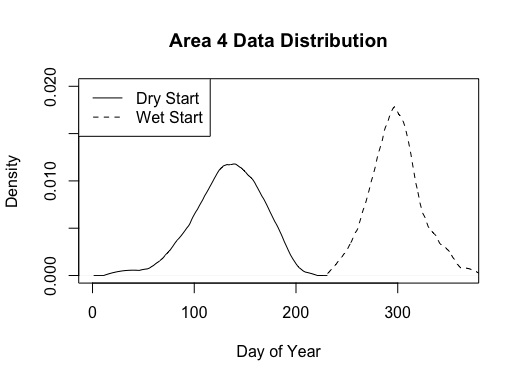
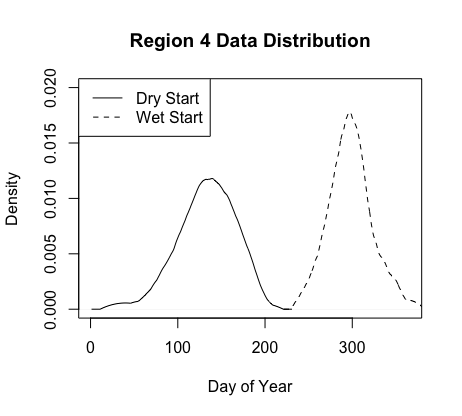
report update

diff --git a/Report/Report.tex b/Report/Report.tex
@@ -34,19 +34,19 @@ Residents and visitors to the Pacific Northwest (Oregon and Washington) notice a
 
 Widmann and Bretherton\footnote{M. Widmann and C. S. Bretherton. Validation of Mesoscale Precipitation in the NCEP Reanalysis Using a New Gridcell Dataset for the Northwestern United States. In Journal of Climate, 13(11), 1936-1950. 2000.} developed a methodology to control for local variation in topography and precipitation data and generated a dataset containing 46 years of estimated precipitation data in a 50km by 50km grid.  In comparison, general models of atmospheric weather operate on the order of hundreds of kilometers, so there is significant room to improve the spatial resolution of weather models.  In particular, local topographic features are not captured by general models, which is a limitation in regions like the Pacific Northwest. The temporal and spatial correlation is also highly dependent on the topography and are difficult to model, and therefore there has been a focus on parametrizing models and reducing the dimensionality. 
 
-In this report, we analyze the precipitation differences using Bayesian approach for two reasons: first, to capture prior beliefs  from living in the area of one author, and second to be able to discuss distributions around complicated model parameters and probabilistic beliefs about the state of weather on a specific day of the year. Bayesian approaches for daily precipitation data are not new, for example see [Olson and Kleiber].... With a Bayesian approach, we hope to model (1) the beginning of dry and wet seasons and (2) the probability of precipitation in the different areas. These models will provide us with tools in order to further analyze and understand the precipitation patterns in the Northwest. 
+In this report, we analyze the precipitation differences using a Bayesian approach for two reasons: first, to capture prior beliefs  from living in the area of one author, and second to be able to discuss distributions around complicated model parameters and probabilistic beliefs about the state of weather on a specific day of the year. Bayesian approaches for daily precipitation data are not new, for example see [Olson and Kleiber].... With a Bayesian approach, we hope to model (1) the beginning of dry and wet seasons and (2) the probability of precipitation in the different areas. These models will provide us with tools in order to further analyze and understand the precipitation patterns in the Northwest. 
 
-This report is organized as follows. In Section 2, we refine our goals with our analysis, which motivates the creation of several variables in our dataset, which is also outlined in the same section. In Section 3, we discuss the two models that we used in order to analyze the data.  We then begin our analysis of the dataset in Section 4, and in Section 6, we conclude our report with summaries of our analysis as well as potential future directions.
+This report is organized as follows. In Section 2, we refine our goals with our analysis, which motivates the creation of several variables in our dataset, which is also outlined in the same section. In Section 3, we discuss the two models that we used in order to analyze the data.  We then begin our analysis of the dataset in Section 4, and in Section 5, we conclude our report with summaries of our analysis as well as potential future directions.
 
 \section{Background}
 
 %The general problem we're trying to model
 \subsection{Main Goals of Analysis}
-In their analysis, Widmann and Bretherton found that there was some variability in precipitation levels in the different topographical areas in the Northwestern United States. For this report, we further investigate the variability in the different areas in order to build upon their results. In particular, we are interested in analysis regarding when the dry and wet seasons start and the probability of precipitation on a given day. By using a Bayesian approach, we are even able to calculate posterior probabilities in order to answer more questions. For example, which area has the longest summer? Which area is most likely to have the latest winter?  What is the chance that someone can escape the bad weather by traveling to another part of the are? With our models and analysis, we may be able to better understand the precipitation patterns in the different topographical areas of the Pacific Northwest. 
+In their analysis, Widmann and Bretherton found that there was some variability in precipitation levels in the different topographical areas in the Northwestern United States. For this report, we further investigate the variability in the different areas in order to build upon their results. In particular, we are interested in analysis regarding when the dry and wet seasons start and the probability of rain on a given day. By using a Bayesian approach, we are able to calculate posterior probabilities in order to conduct further analysis and answer more questions. For example, which area has the longest summer? Which area is most likely to have the latest winter?  What is the chance that someone can escape the bad weather by traveling to another part of the are? With our models and analysis, we may be able to better understand the precipitation patterns in the different topographical areas of the Pacific Northwest. 
 
 \subsection{Precipitation Dataset}
 %Our Data
-To analyze the precipitation in the Pacific Northwest, we use the same dataset as Widmann and Bretherton. This data contains 46 \footnote{Note that when creating the indicators for years, we did not take into account of leap years, which resulted in data points that spilled over to the next year. We just take the years in which we have a year's worth of data for.} years of precipitation logs (measured in millimeters) from 1949 - 1994 that was collected form the National Weather Service and was corrected by the National Climatic Data Center\footnote{The data was corrected during the 'Validated Historical Daily Data' project, which aimed to verify the data collected.}\footnote{T. Reek, S. Doty, and T. Owen. A Deterministic Approach to the Validation of Historical Daily Temperature and Precipitation Data from the Cooperative Network. In Bulletin of the American Meteorological Society 73, no. 6: 753-62. 1992.}. The dataset is a 3-dimensional array with a 2-dimensional 16 (latitude) by 17 (longitude) grid cell\footnote{Each cell represents an area approximately 50km by 50km.} for each of the 16,801 days. However, there are approximately 32,000 missing values which correspond to areas with few functional weather stations, such as the ocean and some areas in the southeast. Using this dataset, we then transformed and created several variables in order to obtain a model to analyze the precipitation. 
+To analyze the precipitation in the Pacific Northwest, we use the dataset generated by Widmann and Bretherton. This data contains 46 years\footnote{Note that when creating the indicators for years, we did not take into account of leap years, which resulted in data points that spilled over to the next year. We just take the years in which we have a year's worth of data for.} of precipitation logs (measured in millimeters) from 1949 - 1994 that was collected form the National Weather Service and was corrected by the National Climatic Data Center\footnote{The data was corrected during the 'Validated Historical Daily Data' project, which aimed to verify the data collected.}\footnote{T. Reek, S. Doty, and T. Owen. A Deterministic Approach to the Validation of Historical Daily Temperature and Precipitation Data from the Cooperative Network. In Bulletin of the American Meteorological Society 73, no. 6: 753-62. 1992.}. The dataset is a 3-dimensional array with a 2-dimensional 16 (latitude) by 17 (longitude) grid cell\footnote{Each cell represents an area approximately 50km by 50km.} for each of the 16,801 days. However, there are approximately 32,000 missing values which correspond to areas with few functional weather stations, such as the ocean and some areas in the southeast. Using this dataset, we then transform and create several variables in order to obtain a model to analyze the precipitation. 
 
 \subsection{Grouping of Areas} \label{GroupArea}
 %Discussion of the areas
@@ -63,7 +63,7 @@ The Pacific Northwest has a varied climate, from temperate rainforests on the Pa
 \item Eastern Oregon / High Desert / Great Basin
 \end{enumerate}
 
-These zones were decided by considering average precipitation over the time period of the data and the topographic features of the region (Figure \ref{fig:topo}). In general, the regions correspond to areas with similar topography. For example, region 8, corresponds to the mountain range in northeastern Oregon, which extends into Idaho. However, only data from Oregon is considered. The rainfall for the region was aggregated by considering if there was measurable precipitation (more than 0.1 mm) in each grid by day, and then for each day if the majority of grid cells reported precipitation, then a value of \textit{rain} was assigned to the area, else it was \textit{dry}.
+These zones are decided by considering average precipitation over the time period of the data and the topographic features of the region (Figure \ref{fig:topo}). In general, the regions correspond to areas with similar topography. For example, region 8, corresponds to the mountain range in northeastern Oregon, which extends into Idaho. However, only data from Oregon is considered. The rainfall for the region was aggregated by considering if there was measurable precipitation (more than 0.1 mm) in each grid by day, and then for each day, if the majority of grid cells reported precipitation, then a value of \textit{rain} was assigned to the area, else it was \textit{dry}.
 
 
 \begin{figure}[h!]
@@ -75,12 +75,12 @@ These zones were decided by considering average precipitation over the time peri
 
 
 \subsection{Indicators for Dry and Wet Season}
-Using the area groups and daily precipitation indicators, mentioned in Section \ref{GroupArea}, we then proceeded to create indicators of when the dry season and wet season starts. To do this, we create an algorithm that chooses indicators of start days for  the dry season ($X_{min}$) and wet season ($X_{max}$) such that it maximizes the number of \textit{dry} days in the dry season and maximizes the number of \textit{wet} days in the wet season. For example, we expect $X_{min}$ to be approximately 170 and $X_{max}$ to be approximately 260 because these dates correspond to the beginning of summer and the beginning of autumn. Using this algorithm, we find the start dates for the dry and wet seasons for the 46 years.
+Using the area groups and daily precipitation indicators, mentioned in Section \ref{GroupArea}, we then proceeded to create indicators of when the dry season and wet season starts. To do this, we create an algorithm that chooses indicators of start days for  the dry season ($X_{min}$) and wet season ($X_{max}$) such that it maximizes the number of \textit{dry} days in the dry season and maximizes the number of \textit{wet} days in the wet season. For example, we expect $X_{min}$ to be approximately 170 and $X_{max}$ to be approximately 260 because these dates correspond to the beginning of summer and the beginning of autumn. Using this algorithm, we find the start dates for the dry and wet seasons for each region for the 46 years.
 
 
 \section{Modeling}
 \subsection{Multivariate Normal Model}
-Our first model is motivated by the goal of determining when the dry and wet seasons start. We model each of the start dates using a model with a semi-conjugate multivariate normal prior and multivariate normal likelihood. We choose this model because it has a closed form and we are able to sample from the posterior distribution using a Gibbs sampler on the full conditionals. Furthermore, upon initial exploration of the data, we see that the distribution of each of the start dates of dry and wet seasons are approximately normal as seen in Figure \ref{PDXexample}. Thus, we continue with the multivariate normal likelihood with confidence that it represents the data we have. 
+Our first model is motivated by the goal of determining when the dry and wet seasons start. We model each of the start dates using a semi-conjugate multivariate normal prior and multivariate normal likelihood. We choose this model because it has a closed form and we are able to sample from the posterior distribution using a Gibbs sampler on the full conditionals. Furthermore, upon initial exploration of the data, we see that the distribution of both the start dates of dry and wet seasons are approximately normal as seen in Figure \ref{PDXexample}. Thus, we continue with the multivariate normal likelihood with confidence that it represents the data we have. 
 
 \begin{figure}[H]
 \includegraphics[width = .4\textwidth, height = 6cm]{Area4DataDistribution}
@@ -95,7 +95,7 @@ We first define the semi-conjugate prior distributions as follows.
 \Sigma \sim Inverse-Wishart_{\nu_0}(\Sigma_0^{-1})
 \end{align*}
 
-To determine the prior parameters, we let $\mu_0 = \begin{bmatrix} X_{min} \\ X_{max} \end{bmatrix} = \begin{bmatrix} 170 \\ 260 \end{bmatrix}$ and $\Lambda_0 = \begin{bmatrix} 30^2 & 0 \\ 0 & 30^2 \end{bmatrix}$ for all 9 area groups. The prior means are chosen according to when the summer and autumn season starts and the prior standard deviations of the $\theta 's$ were chosen to represent a spread of one month. To set the prior parameter for $\Sigma$, we choose the $\Sigma_0$ values by mimicking the methods used during our homework, where we let $\Sigma_0$ equal the \textit{variance - covariance} matrices for each area group from the data. The parameters for $\Sigma_0$ of the nine regions are shown in Table \ref{tab:sigmavals}.
+To determine the prior parameters, we let $\mu_0 = \begin{bmatrix} X_{min} \\ X_{max} \end{bmatrix} = \begin{bmatrix} 170 \\ 260 \end{bmatrix}$ and $\Lambda_0 = \begin{bmatrix} 30^2 & 0 \\ 0 & 30^2 \end{bmatrix}$ for all 9 area groups. The prior means are chosen according to when the summer and autumn season starts and the prior standard deviations of the $\theta 's$ were chosen to represent a spread of one month. To set the prior parameter for $\Sigma$, we choose the $\Sigma_0$ values by mimicking the methods used during our homework, where we let $\Sigma_0$ equal the \textit{variance - covariance} matrices for each area group from the data. The parameters for $\Sigma_0$ of the nine regions are shown in Table \ref{tab:sigmavals}. We also let $\nu_0 = 2$ in order to have a relative non-informative prior.
 
 \begin{table}[h!]
 \centering
@@ -141,10 +141,10 @@ In order to conduct Gibbs sampling, we need full conditionals of $\theta$ and $\
 We further develop our analysis by considering the probability of precipitation on each day for the summer (dry) and winter (rainy) seasons. This is motivated by the idea of trying to plan outdoor activities in each area of the Pacific Northwest and deciding if there is value in traveling to a different area to escape rain.
 Therefore, the following model is proposed:
 \begin{itemize}
-\item The data is binary data representing if it rained or not for each day of the year,
+\item The data is binary data representing if it rained or not for each day of the year
 \item The probability of rain on the jth day of the year is given by the following piecewise linear function: $\pi_j = \theta_0 + (a * 1_{j < \theta^*} + b*1_{j>=\theta^*})(j - \theta^*)$
-\item $\theta_0$ can be interpreted as the chance of precipitation on the driest day of the year, $\theta^*$ is the day number of the driest day, and $a$ and $b$ are the slopes of the springtime daily change in precipitation chance, and fall daily change in precipitation chance, respectively.
-\item The probability of observing precipitation is a Bernoulli random variable, with parameter $\pi_j$.
+\item $\theta_0$ can be interpreted as the chance of precipitation on the driest day of the year, $\theta^*$ is the day number of the driest day, and $a$ and $b$ are the slopes of the springtime daily change in precipitation chance, and fall daily change in precipitation chance, respectively
+\item The probability of observing precipitation is a Bernoulli random variable, with parameter $\pi_j$
 \end{itemize}
 
 Furthermore, we note the wintertime (January - March) is has a constant, large chance of rain across the region, as seen in Figure \ref{fig:area4}, and therefore we choose to focus our analysis on the periods where this chance is changing.
